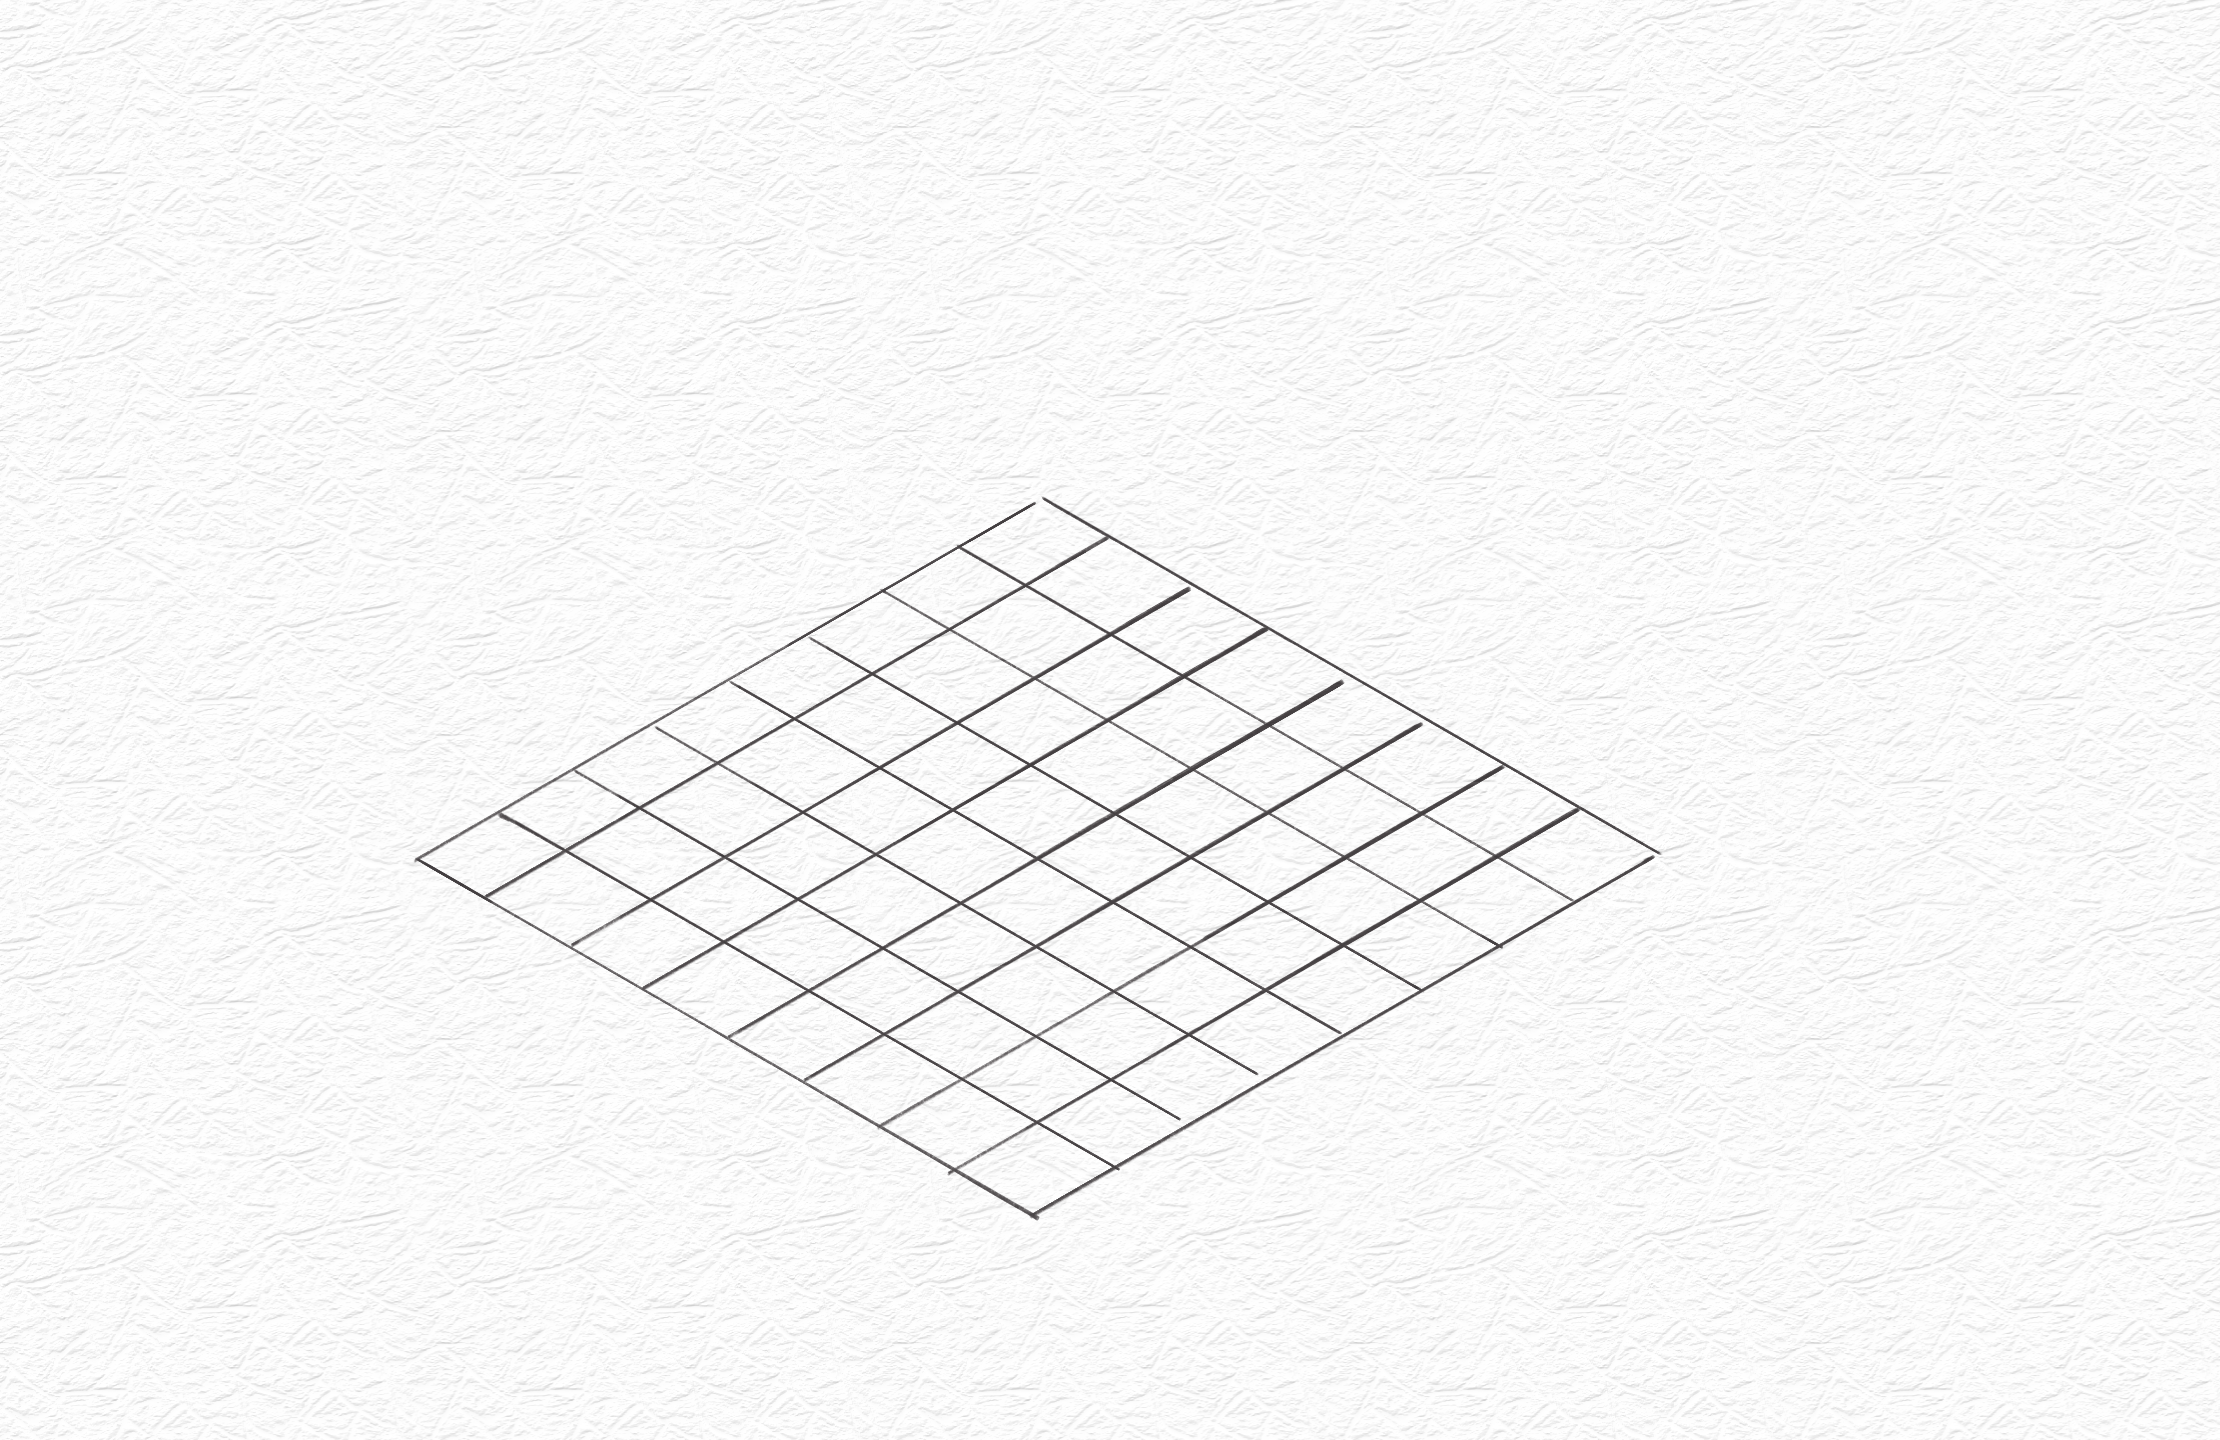
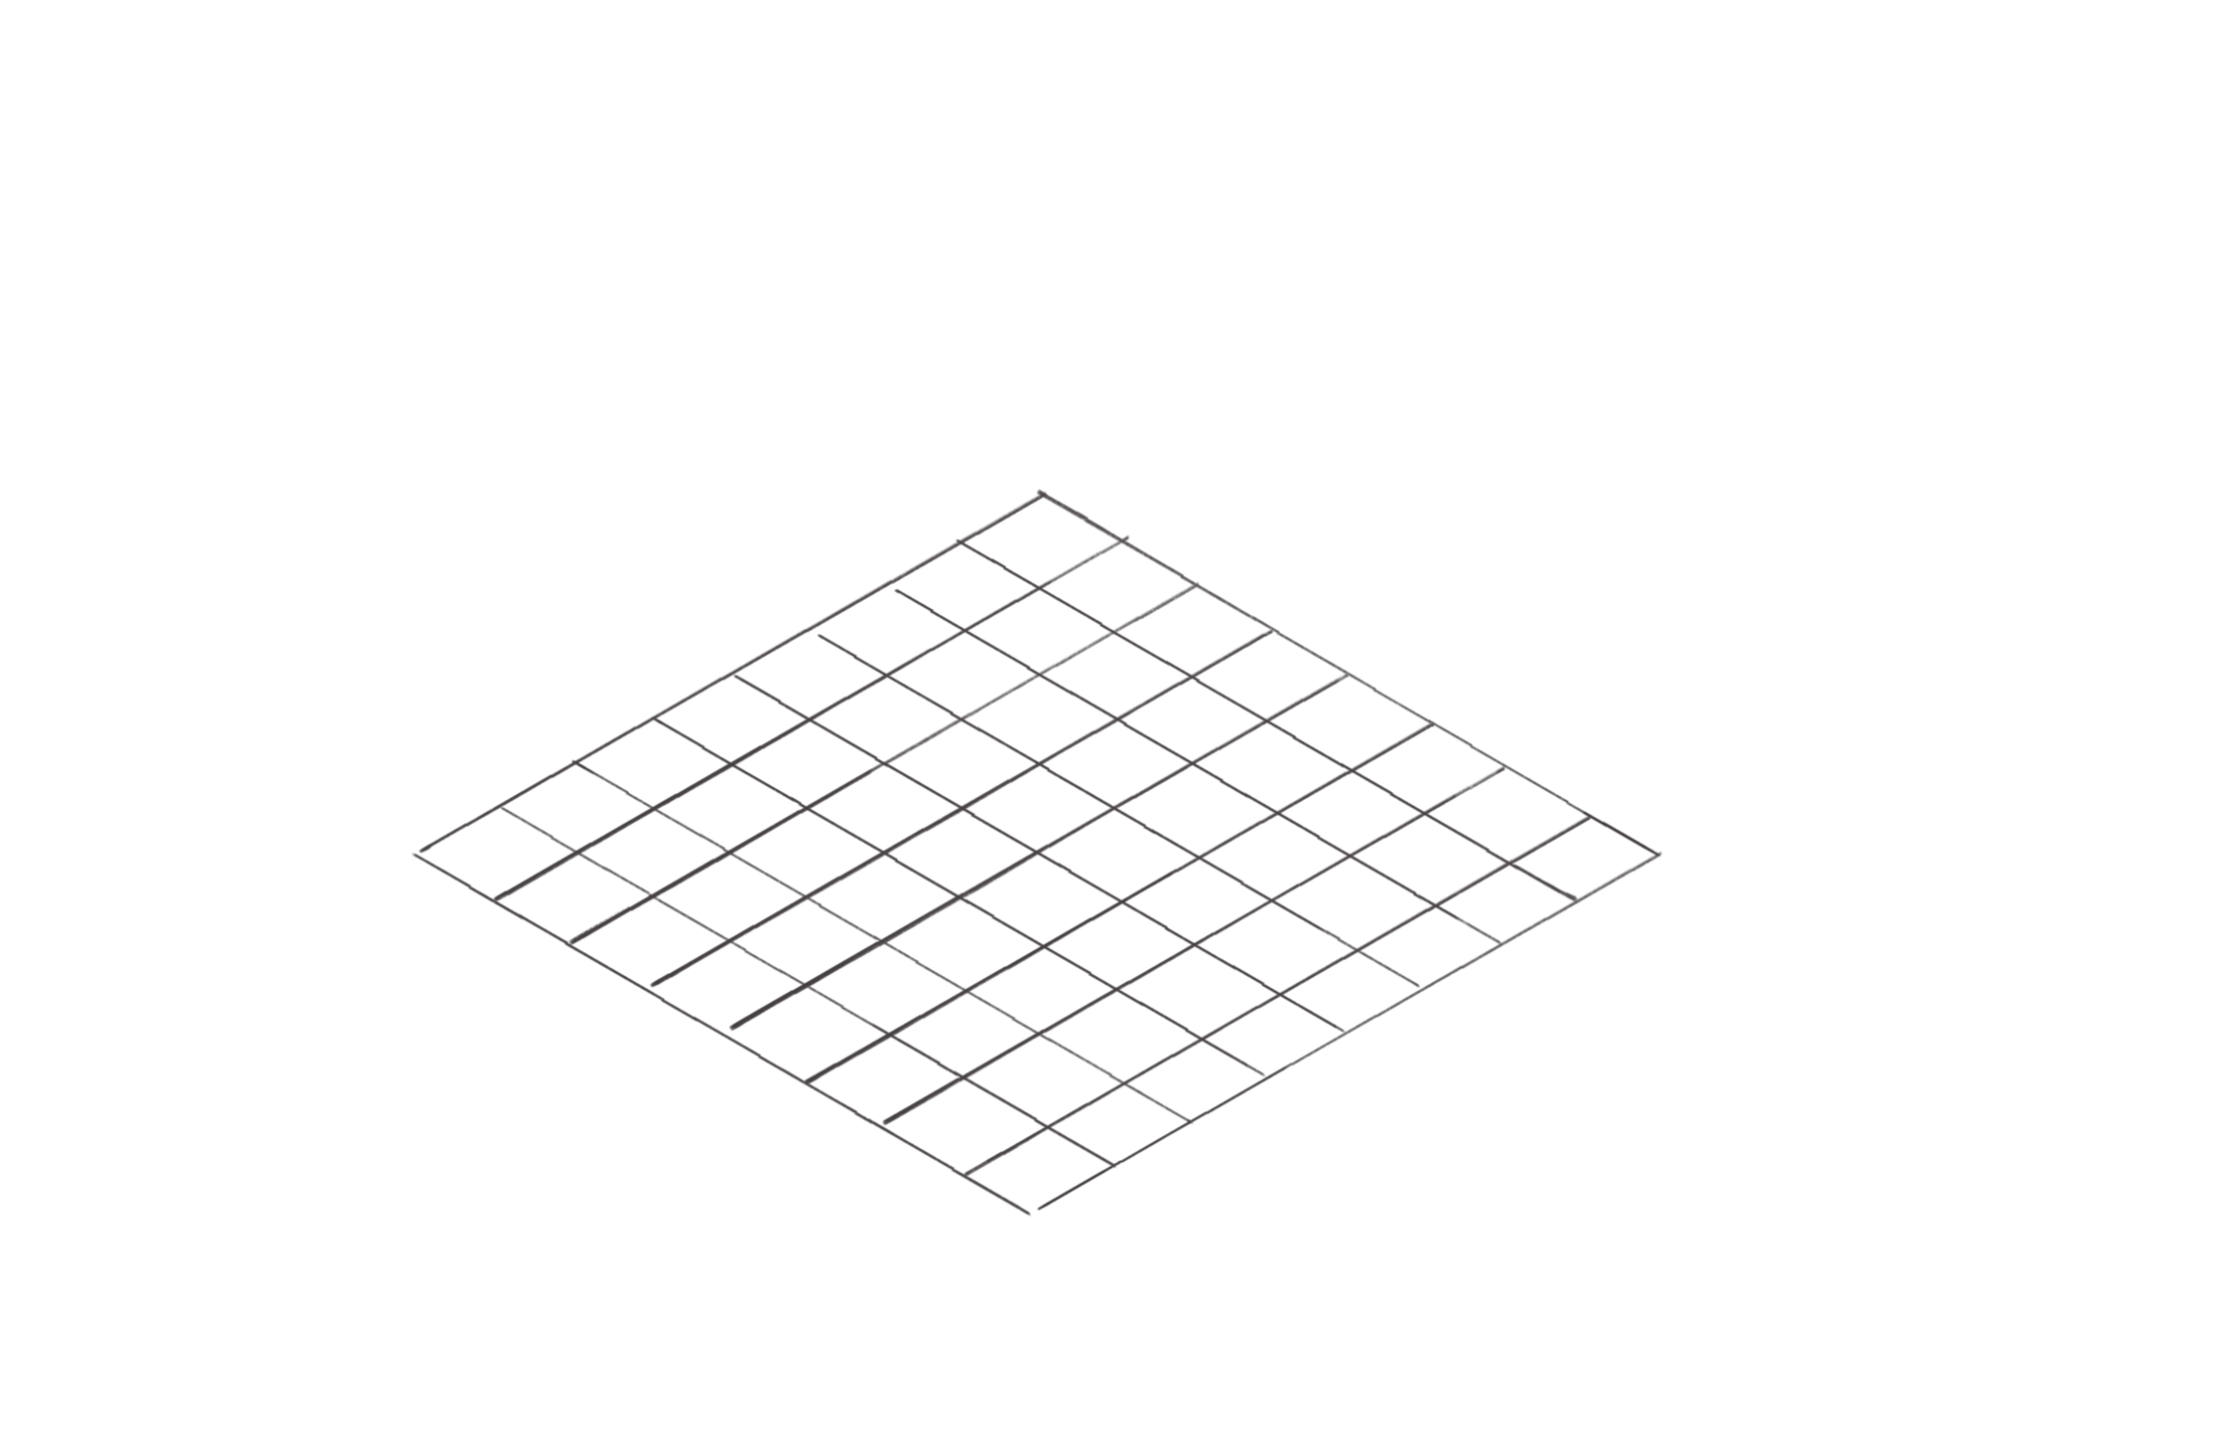
Update UI assets and improve notebook layout

Changed region(s): [[0.1865, 0.3438, 0.7459, 0.8438]]

diff --git a/src/level-ui.css b/src/level-ui.css
@@ -34,38 +34,41 @@
 .notebook-ui{
   position:absolute;
   z-index:20;
-  left:-1vw;
-  bottom:-1.5vh;
-  width:clamp(390px,42vw,680px);
-  aspect-ratio:1533 / 1012;
+  left:-2vw;
+  bottom:-2vh;
+  width:clamp(400px,32vw,540px);
+  aspect-ratio:883 / 676;
   user-select:none;
 }
 
 .notebook-art{
   position:absolute;
   inset:0;
+  z-index:2;
   overflow:hidden;
   pointer-events:none;
 }
 
-/* The exported notebook keeps its original PSD canvas. Crop the transparent
-   margins using the measured alpha bounds (395,239)-(1928,1251) so layout
-   coordinates refer to the visible notebook instead of the export canvas. */
+/* The WebP keeps the original 2049x1484 export canvas. Crop to the current
+   notebook body at (395,575)-(1278,1251), ignoring transparent space and
+   stray export pixels, so UI coordinates follow the actual sheet of paper. */
 .notebook-base{
   position:absolute;
-  width:133.66%;
-  height:146.64%;
-  left:-25.77%;
-  top:-23.62%;
+  width:232.05%;
+  height:219.53%;
+  left:-44.73%;
+  top:-85.06%;
   object-fit:fill;
   pointer-events:none;
 }
 
 .notebook-tabs{
   position:absolute;
-  z-index:4;
+  /* The tabs are tucked behind the paper.  Only their upper edge is exposed,
+     like real sticky notes attached to the notebook. */
+  z-index:1;
   left:8%;
-  top:-8%;
+  top:-18%;
   width:74%;
   height:24%;
   display:grid;
@@ -82,18 +85,18 @@
   border:0;
   background:transparent;
   cursor:pointer;
-  transform:translateY(9px);
+  transform:translateY(9px) scale(1);
   transition:transform 170ms cubic-bezier(.2,.85,.25,1),filter 170ms ease;
   -webkit-tap-highlight-color:transparent;
 }
 
 .notebook-tab:hover,
 .notebook-tab:focus-visible{
-  transform:translateY(3px);
+  transform:translateY(3px) scale(1.04);
 }
 
 .notebook-tab[aria-selected='true']{
-  transform:translateY(-8px);
+  transform:translateY(-8px) scale(1.04);
   filter:drop-shadow(0 4px 2px rgba(57,41,22,.2));
 }
 
@@ -101,19 +104,19 @@
   display:block;
   width:100%;
   height:100%;
-  object-fit:contain;
-  object-position:center bottom;
+  object-fit:cover;
+  object-position:right top;
   pointer-events:none;
 }
 
 .notebook-page{
   position:absolute;
   z-index:3;
-  left:11%;
-  top:18%;
-  width:66%;
-  height:62%;
-  padding:1.5% 3% 4%;
+  left:13.5%;
+  top:13.5%;
+  width:76.5%;
+  height:76%;
+  padding:1.5% 2.5% 5%;
   color:#38423b;
   font-family:'Segoe Print','Comic Sans MS',cursive;
   transform:rotate(-.3deg);
@@ -122,14 +125,15 @@
 
 .notebook-page h2{
   margin:0 0 .35rem;
-  font-size:clamp(1rem,1.7vw,1.5rem);
+  font-size:clamp(.92rem,1.22vw,1.25rem);
   font-weight:700;
+  line-height:1.35;
 }
 
 .notebook-page p,
 .notebook-page li{
-  font-size:clamp(.68rem,1.08vw,.92rem);
-  line-height:1.42;
+  font-size:clamp(.64rem,.82vw,.82rem);
+  line-height:1.52;
 }
 
 .notebook-page p{margin:.35rem 0}
@@ -174,10 +178,29 @@
 
 .notebook-settings-row input{width:100%}
 
+.notebook-menu-button{
+  margin-top:10px;
+  padding:7px 10px;
+  border:1.5px solid rgba(55,66,59,.72);
+  border-radius:3px 7px 4px 6px;
+  background:rgba(248,241,219,.72);
+  color:#38423b;
+  font-weight:700;
+  cursor:pointer;
+  box-shadow:2px 3px 0 rgba(50,39,25,.16);
+  transition:transform .14s ease,box-shadow .14s ease;
+}
+
+.notebook-menu-button:hover,
+.notebook-menu-button:focus-visible{
+  transform:translateY(-1px);
+  box-shadow:2px 4px 0 rgba(50,39,25,.14);
+}
+
 .game-controls{
   position:absolute;
   z-index:25;
-  left:clamp(390px,42vw,690px);
+  left:clamp(380px,31vw,550px);
   bottom:2.5vh;
   display:flex;
   gap:10px;
@@ -194,6 +217,13 @@
   box-shadow:2px 3px 0 rgba(50,39,25,.22);
   cursor:pointer;
   transition:transform .14s ease,box-shadow .14s ease;
+}
+
+#pause-toggle{
+  font-family:'Segoe UI Symbol','Arial Unicode MS',sans-serif;
+  font-size:1.28rem;
+  font-weight:400;
+  letter-spacing:0;
 }
 
 .game-control-button:hover,
@@ -213,7 +243,11 @@
 }
 
 .pause-dialog::backdrop{background:rgba(37,31,23,.38)}
-.pause-card{min-width:min(88vw,360px)}
+.pause-card{
+  min-width:min(80vw,280px);
+  padding:20px 22px;
+}
+.pause-card .result-actions{margin-top:18px}
 
 .level-screen > #game-settings,
 .level-screen .legacy-audio-control{display:none!important}
@@ -225,8 +259,8 @@
     top:4vh;
   }
   .notebook-ui{
-    width:min(68vw,560px);
-    left:-2vw;
+    width:min(56vw,450px);
+    left:-4vw;
   }
   .game-controls{left:auto;right:18px;bottom:18px}
 }
@@ -238,21 +272,21 @@
     top:5.5vh;
   }
   .notebook-ui{
-    width:min(94vw,520px);
-    left:-7vw;
-    bottom:-1.2vh;
+    width:min(82vw,125dvh,430px);
+    left:-8vw;
+    bottom:-1.5vh;
   }
   .notebook-tabs{
     left:10%;
-    top:-7%;
+    top:-17%;
     width:76%;
     height:23%;
   }
   .notebook-page{
-    left:12%;
-    top:19%;
-    width:64%;
-    height:60%;
+    left:14.5%;
+    top:14.5%;
+    width:74%;
+    height:72%;
   }
   .notebook-page h2{font-size:clamp(.95rem,4.1vw,1.2rem)}
   .notebook-page p,
@@ -263,5 +297,5 @@
 
 @media (orientation:portrait) and (min-width:641px){
   .board-stage{width:106vw;right:-24vw;top:7vh}
-  .notebook-ui{width:min(64vw,620px);left:-3vw}
+  .notebook-ui{width:min(52vw,480px);left:-4vw}
 }

diff --git a/index.html b/index.html
@@ -5,7 +5,7 @@
     <meta name="viewport" content="width=device-width, initial-scale=1.0" />
     <meta name="theme-color" content="#efefeb" />
     <title>Turn Over</title>
-    <link rel="stylesheet" href="./src/styles.css?v=20260814-1700" />
+    <link rel="stylesheet" href="./src/styles.css?v=20260819-3" />
     <link rel="stylesheet" href="./src/home-screen.css?v=20260819-0055" />
     <link rel="stylesheet" href="./src/audio-controls.css?v=20260814-1700" />
     <link rel="stylesheet" href="./src/level-ui.css?v=20260819-0055" />
@@ -49,7 +49,7 @@
 
         <div class="game-controls" aria-label="Controles de partida">
           <button id="mute-toggle" class="game-control-button" type="button" aria-label="Silenciar música" aria-pressed="false">🔊</button>
-          <button id="pause-toggle" class="game-control-button" type="button" aria-label="Pausar partida">Ⅱ</button>
+          <button id="pause-toggle" class="game-control-button" type="button" aria-label="Pausar partida">⏸</button>
         </div>
 
         <button id="game-settings" type="button" hidden aria-hidden="true">Ajustes</button>
@@ -93,11 +93,9 @@
 
     <dialog id="pause-dialog" class="pause-dialog" aria-labelledby="pause-title">
       <section class="modal-card pause-card">
-        <p class="eyebrow">Partida</p>
         <h2 id="pause-title">Pausa</h2>
-        <p>La interacción con el tablero queda bloqueada mientras este mensaje está abierto.</p>
         <div class="result-actions">
-          <button id="resume-game" class="primary-button" type="button">Continuar</button>
+          <button id="resume-game" class="primary-button" type="button">Reanudar</button>
         </div>
       </section>
     </dialog>
@@ -119,7 +117,7 @@
       </section>
     </dialog>
 
-    <script type="module" src="./src/main.js?v=20260814-1700"></script>
-    <script type="module" src="./src/level-ui.js?v=20260818-1930"></script>
+    <script type="module" src="./src/main.js?v=20260819-1"></script>
+    <script type="module" src="./src/level-ui.js?v=20260819-1"></script>
   </body>
 </html>

diff --git a/src/level-ui.js b/src/level-ui.js
@@ -32,7 +32,7 @@ const NOTEBOOK_SECTIONS = {
   settings: [
     {
       title: 'Ajustes',
-      html: '<div class="notebook-settings-row"><label for="notebook-volume">Música</label><input id="notebook-volume" type="range" min="0" max="100" step="1" value="45" aria-label="Volumen de la música"></div><p>El botón de altavoz junto al cuaderno permite silenciar o recuperar el volumen con una sola pulsación.</p>'
+      html: '<div class="notebook-settings-row"><label for="notebook-volume">Música</label><input id="notebook-volume" type="range" min="0" max="100" step="1" value="45" aria-label="Volumen de la música"></div><p>El botón de altavoz junto al cuaderno permite silenciar o recuperar el volumen con una sola pulsación.</p><button id="notebook-main-menu" class="notebook-menu-button" type="button">Volver al menú principal</button>'
     }
   ]
 };
@@ -86,6 +86,9 @@ class NotebookUI {
   }
 
   bindSettingsControls() {
+    const mainMenu = this.root.querySelector('#notebook-main-menu');
+    mainMenu?.addEventListener('click', () => window.dispatchEvent(new Event('game:return-home')));
+
     const volume = this.root.querySelector('#notebook-volume');
     const legacy = document.querySelector('#music-volume');
     if (!volume || !legacy) return;

diff --git a/src/styles.css b/src/styles.css
@@ -49,12 +49,13 @@ button{font:inherit;letter-spacing:.02em}
   width:100%;
   aspect-ratio:940 / 580;
   position:relative;
-  overflow:hidden;
+  overflow:visible;
   touch-action:manipulation;
   isolation:isolate;
   filter:drop-shadow(5px 7px 0 rgba(75,60,32,.2));
 }
-.board::before{
+.board::before,
+.board::after{
   content:"";
   position:absolute;
   z-index:0;
@@ -62,11 +63,20 @@ button{font:inherit;letter-spacing:.02em}
   height:var(--board-bg-height,100%);
   left:var(--board-bg-left,0%);
   top:var(--board-bg-top,0%);
-  background-image:var(--board-image);
   background-position:center;
   background-size:100% 100%;
   background-repeat:no-repeat;
   pointer-events:none;
+}
+
+.board::before{
+  background-image:url('../assets/boards/paper-board.webp');
+  transform:translate(-3%,5%) scale(1.06);
+  transform-origin:center;
+}
+
+.board::after{
+  background-image:var(--board-image);
 }
 .iso-cell,.unit,.prisoner,.piece-capture-actions,.board-element,.special-tile{position:absolute}
 .iso-cell{

diff --git a/src/main.js b/src/main.js
@@ -69,6 +69,7 @@ class GameApp {
     const requestedLevelId = params.get(GAME_CONFIG.levelQueryParam);
     const forceTutorial = params.get(GAME_CONFIG.tutorialQueryParam) === '1';
     this.bindMenu();
+    window.addEventListener('game:return-home', () => this.showHome());
     if (requestedLevelId) this.startGame(getLevel(requestedLevelId) ?? getLevel(GAME_CONFIG.defaultLevelId), { forceTutorial });
     else this.showHome();
 
